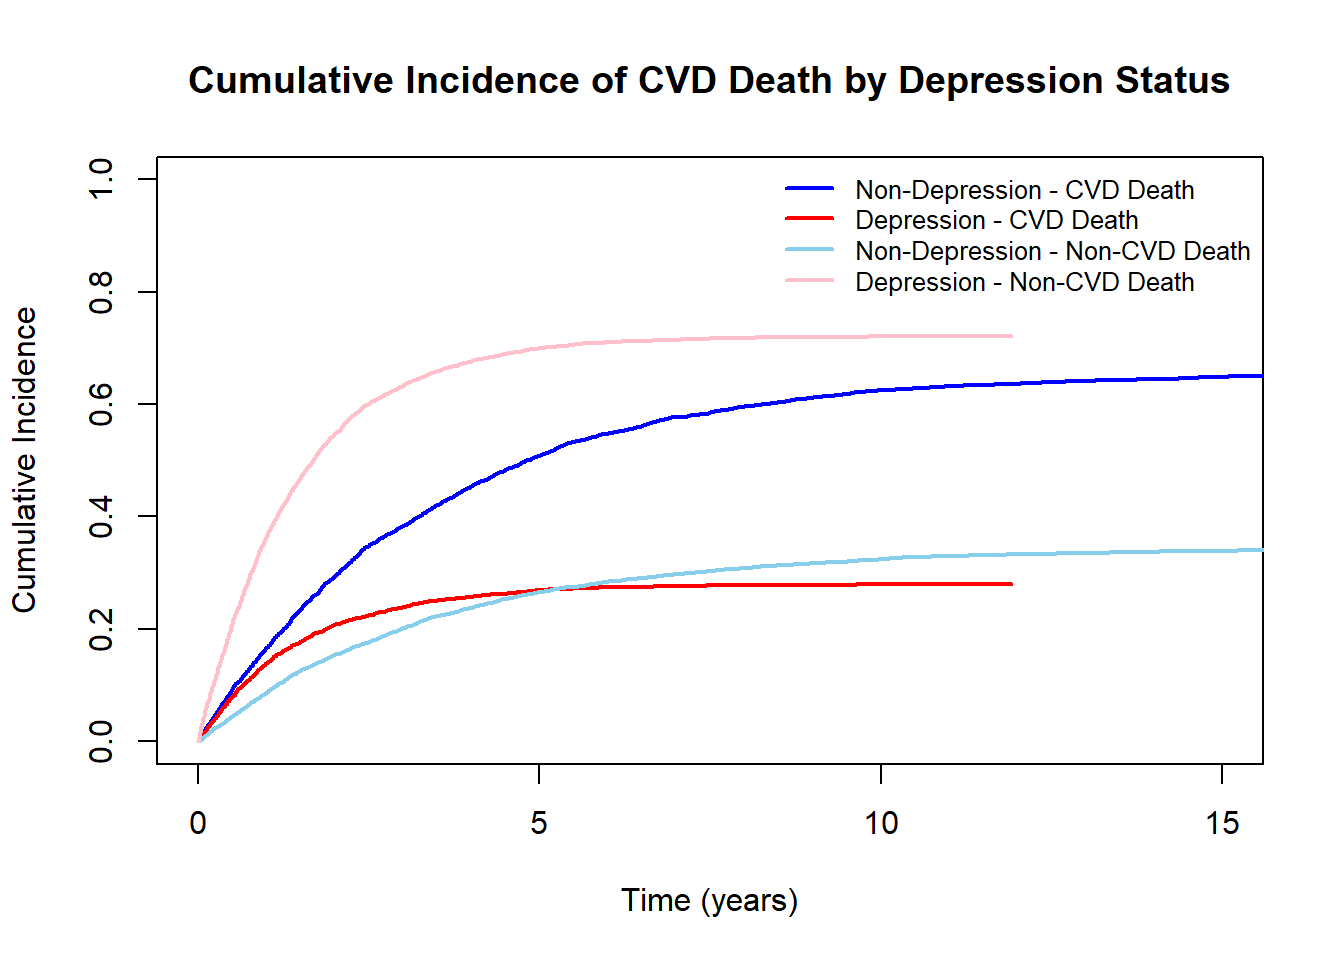
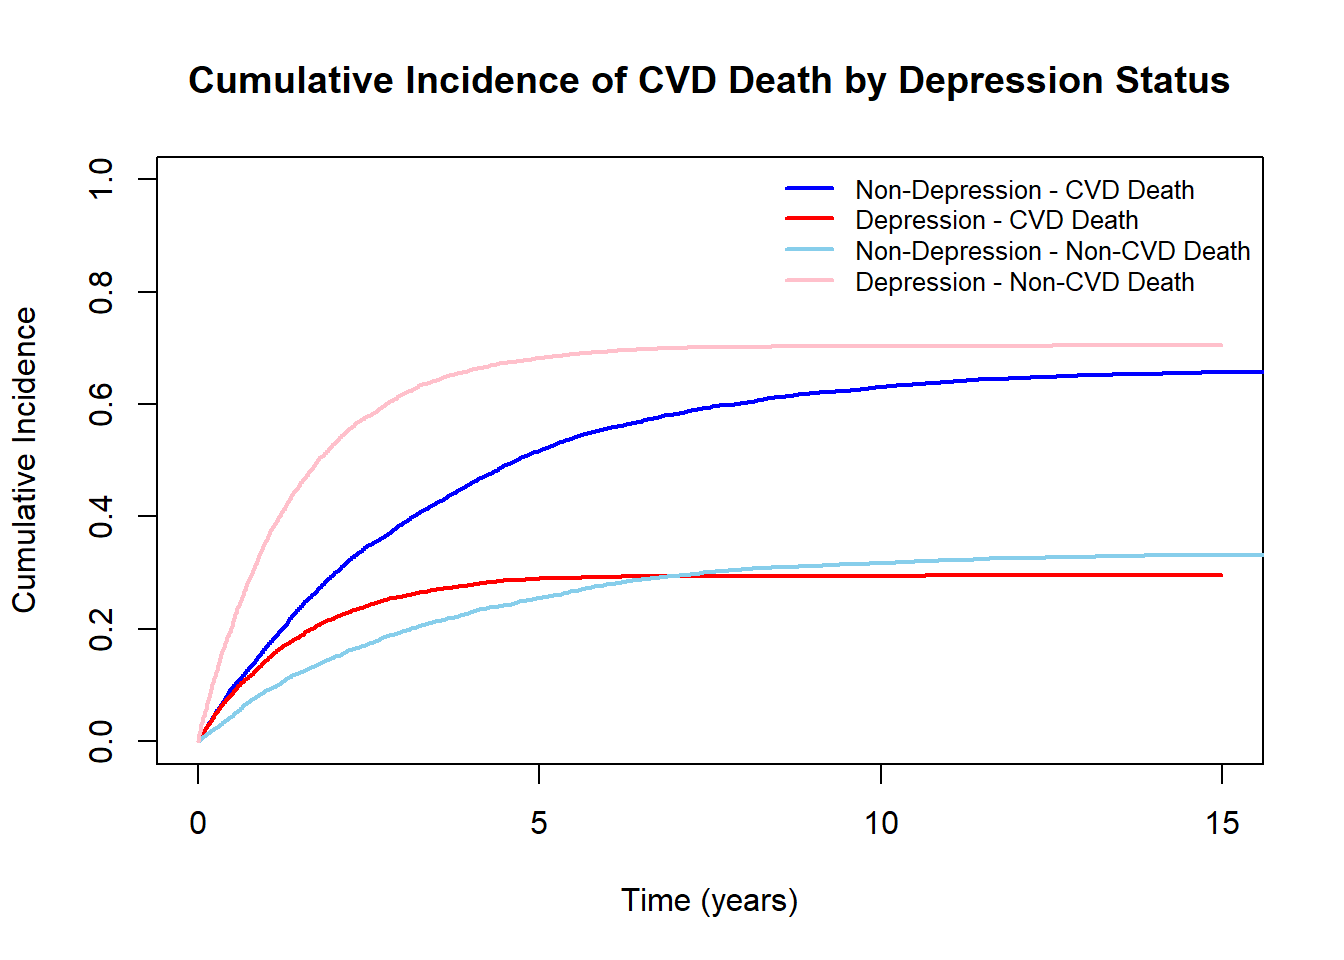
vault backup: 2025-04-10 15:16:18

diff --git a/docs/posts/2025-01-03-comeptingrisk/index.html b/docs/posts/2025-01-03-comeptingrisk/index.html
@@ -319,22 +319,22 @@ h_k^{sd}(t) = \lim_{\Delta t \to 0} \frac{P(t \leq T &lt; t+\Delta t, \text{Caus
 <span></span>
 <span><span class="fu"><a href="https://rdrr.io/r/utils/head.html">head</a></span><span class="op">(</span><span class="va">sample_data</span>, n<span class="op">=</span> <span class="fl">15</span><span class="op">)</span></span></code><button title="Copy to Clipboard" class="code-copy-button"><i class="bi"></i></button></pre></div>
 <div class="cell-output cell-output-stdout">
-<pre><code>   ID Time Event    Sex Depression CVD_time
-1   1 1.66     1 Female         No     1.66
-2   2 3.11     1   Male         No     3.11
-3   3 0.04     1   Male         No     0.04
-4   4 1.81     1   Male         No     1.81
-5   5 7.56     1   Male         No     7.56
-6   6 8.96     1   Male         No     8.96
-7   7 3.28     1 Female         No     3.28
-8   8 3.91     1   Male         No     3.91
-9   9 2.87     1   Male         No     2.87
-10 10 1.64     1 Female         No     1.64
-11 11 4.38     1 Female         No     4.38
-12 12 1.16     2 Female         No     1.71
-13 13 7.86     1 Female         No     7.86
-14 14 1.72     1   Male         No     1.72
-15 15 0.50     1 Female         No     0.50</code></pre>
+<pre><code>   ID  Time Event    Sex Depression CVD_time
+1   1  2.09     1 Female         No     2.09
+2   2  0.81     2 Female         No    16.60
+3   3  3.63     1   Male         No     3.63
+4   4  5.22     2 Female         No     5.75
+5   5  1.44     1   Male         No     1.44
+6   6  2.29     1   Male         No     2.29
+7   7  3.27     1   Male         No     3.27
+8   8 12.66     1 Female         No    12.66
+9   9  1.58     2 Female         No    10.36
+10 10  8.78     1   Male         No     8.78
+11 11  1.32     1   Male         No     1.32
+12 12  0.04     1 Female         No     0.04
+13 13  1.95     1 Female         No     1.95
+14 14  6.47     1   Male         No     6.47
+15 15  5.31     2   Male         No     6.82</code></pre>
 </div>
 </div>
 <p>데이터에서 Time은 Death(CVD, non-CVD 포함)가 발생한 시점입니다. R의 cmprsk 패키지를 통해 fine gray method로 분석을 진행하고, 전통적 생존 분석또한 함께 진행해보겠습니다.</p>
@@ -350,15 +350,15 @@ h_k^{sd}(t) = \lim_{\Delta t \to 0} \frac{P(t \leq T &lt; t+\Delta t, \text{Caus
 <span><span class="fu"><a href="https://rdrr.io/pkg/jstable/man/cox2.display.html">cox2.display</a></span><span class="op">(</span><span class="va">cox_csh</span><span class="op">)</span></span></code><button title="Copy to Clipboard" class="code-copy-button"><i class="bi"></i></button></pre></div>
 <div class="cell-output cell-output-stdout">
 <pre><code>$table
-               HR(95%CI)          P value
-Depression_num "0.94 (0.15,6.12)" "0.954"
+               HR(95%CI)         P value
+Depression_num "3.8 (2.66,5.43)" "0.182"
 
 $metric
                         [,1] [,2]
 &lt;NA&gt;                      NA   NA
 No. of observations 10000.00   NA
-No. of events        4677.00   NA
-AIC                 75452.43   NA
+No. of events        4789.00   NA
+AIC                 77447.87   NA
 
 $caption
 [1] "Cox model on time ('NA, surv_object_csh, character(0)') to event ('surv_object_csh')"</code></pre>
@@ -378,15 +378,15 @@ $caption
 Call:
 crr(ftime = ftime, fstatus = fstatus, cov1 = covariates)
 
-                coef exp(coef) se(coef)     z p-value
-Depression_num -1.04     0.352   0.0335 -31.2       0
+                 coef exp(coef) se(coef)   z p-value
+Depression_num -0.984     0.374   0.0328 -30       0
 
                exp(coef) exp(-coef) 2.5% 97.5%
-Depression_num     0.352       2.84 0.33 0.376
+Depression_num     0.374       2.68 0.35 0.399
 
 Num. cases = 10000
-Pseudo Log-likelihood = -41175 
-Pseudo likelihood ratio test = 1168  on 1 df,</code></pre>
+Pseudo Log-likelihood = -42183 
+Pseudo likelihood ratio test = 1072  on 1 df,</code></pre>
 </div>
 </div>
 <p>exp(coef) 즉 subdistribution hazard ratio가 0.363이고, p value 가 &lt;0.01임으로 우울증이 있는 사람에게는 CVD-death가 덜 발생한다고 해석할 수 있습니다. 우울증 여부가 CVD-death에 영향을 미치지 않게 데이터를 만들었는데 왜 이런 결과가 나왔는지 그리고 서로 다르게 나온 두 결과를 각각 어떻게 해석해야 되는지를 알아보겠습니다. 우울증 환자와 비 우울증 환자에서 CVD-death에 대한 CIF를 한번 그려보도록 하겠습니다.</p>
@@ -488,7 +488,7 @@ Pseudo likelihood ratio test = 1168  on 1 df,</code></pre>
 6        0 0.9873022</code></pre>
 </div>
 </div>
-<p>데이터에서 볼 수 있듯이 competing risk가 발생한 환자의 경우 추적 종료까지 risk set에 기여도는 낮아지지만, 끝까지 포함되어 있다는 것을 알 수 있습니다. 또한 얻은 pdata로 기존의 생존분석과 같은 함수를 사용하면, 가중치가 반영되어 fine gray method로 구한 subdistribution hazard function에 대한 coefficient값을 얻을 수 있다는 것을 알 수 있습니다. .</p>
+<p>데이터에서 볼 수 있듯이 competing risk가 발생한 환자의 경우 추적 종료까지 risk set에 기여도는 낮아지지만, 끝까지 포함되어 있다는 것을 알 수 있습니다. 또한 얻은 pdata로 기존의 생존분석과 같은 함수를 사용하면, 가중치가 반영되어 fine gray method로 구한 subdistribution hazard function에 대한 coefficient값을 얻을 수 있다는 것을 알 수 있습니다. ..test</p>
 <div class="cell">
 <div class="sourceCode" id="cb12"><pre class="downlit sourceCode r code-with-copy"><code class="sourceCode R"><span><span class="va">fgfit</span> <span class="op">&lt;-</span> <span class="fu"><a href="https://rdrr.io/pkg/survival/man/coxph.html">coxph</a></span><span class="op">(</span><span class="fu"><a href="https://rdrr.io/pkg/survival/man/Surv.html">Surv</a></span><span class="op">(</span><span class="va">fgstart</span>, <span class="va">fgstop</span>, <span class="va">fgstatus</span><span class="op">)</span> <span class="op">~</span> <span class="va">age</span><span class="op">+</span><span class="va">sex</span>,</span>
 <span>               weight<span class="op">=</span><span class="va">fgwt</span>, data<span class="op">=</span><span class="va">pdata</span>, model <span class="op">=</span> <span class="cn">T</span><span class="op">)</span></span>

diff --git a/docs/index.html b/docs/index.html
@@ -224,7 +224,7 @@ window.Quarto = {
   </div>
 </div>
 <div class="list quarto-listing-default">
-<div class="quarto-post image-right" data-index="0" data-categories="c3RhdGlzdGljcw==" data-listing-date-sort="1735830000000" data-listing-file-modified-sort="1744263824323" data-listing-date-modified-sort="NaN" data-listing-reading-time-sort="11" data-listing-word-count-sort="2041">
+<div class="quarto-post image-right" data-index="0" data-categories="c3RhdGlzdGljcw==" data-listing-date-sort="1735830000000" data-listing-file-modified-sort="1744265719784" data-listing-date-modified-sort="NaN" data-listing-reading-time-sort="11" data-listing-word-count-sort="2041">
 <div class="thumbnail"><a href="./posts/2025-01-03-comeptingrisk/index.html" class="no-external">
 
 <img loading="lazy" src="./posts/2025-01-03-comeptingrisk/img/image.png" class="thumbnail-image">
